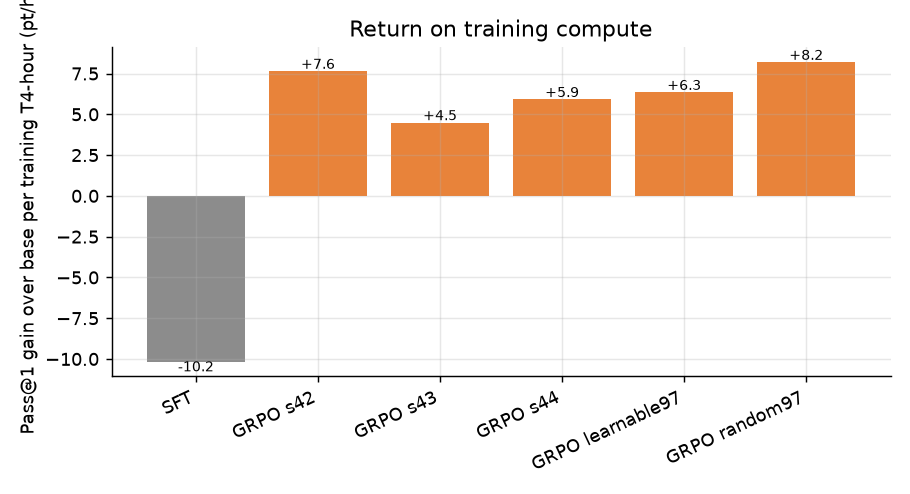
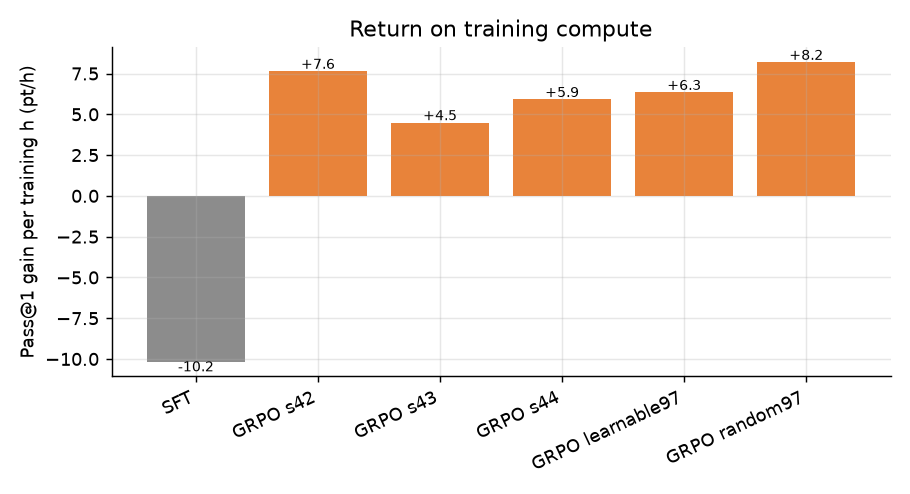
fix(reports): shorten f2 ROI chart y-axis label so it is not clipped

Changed region(s): [[0.0, 0.0911, 0.0615, 0.7287], [0.0, 0.7591, 0.0615, 0.8806], [0.0, 0.0, 0.0615, 0.0607]]

diff --git a/kaggle/tools/make_dashboard.py b/kaggle/tools/make_dashboard.py
@@ -120,7 +120,7 @@ fig, ax = plt.subplots(figsize=(7, 3.8))
 names = {"sft": "SFT", "grpo_s42": "GRPO s42", "grpo_s43": "GRPO s43", "grpo_s44": "GRPO s44", "learnable97": "GRPO learnable97", "random97": "GRPO random97"}
 ax.bar([names[k] for k, _ in roi], [v for _, v in roi], color=[C_OTHER if k == "sft" else C_GRPO for k, _ in roi])
 for i, (_, v) in enumerate(roi): ax.text(i, v + (0.15 if v >= 0 else -0.6), f"{v:+.1f}", ha="center", fontsize=8)
-ax.set_ylabel("Pass@1 gain over base per training T4-hour (pt/h)"); ax.set_title("Return on training compute"); plt.xticks(rotation=25, ha="right")
+ax.set_ylabel("Pass@1 gain per training h (pt/h)"); ax.set_title("Return on training compute"); plt.xticks(rotation=25, ha="right")
 save("f2_roi")
 
 # 3. test-time scaling
